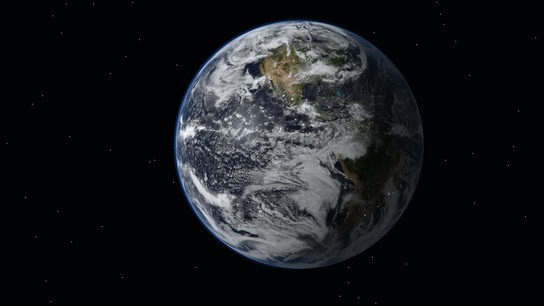
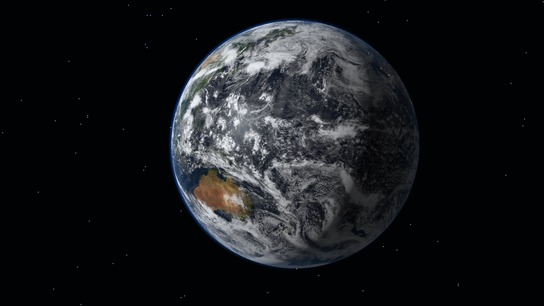
Integrate released Cloud and Earth scenes for Toolkit 4.4.4

diff --git a/test/screensavers-coverage.test.js b/test/screensavers-coverage.test.js
@@ -169,14 +169,11 @@ test('Rainforest Cascade registry entry points to its released app and installer
 });
 
 test('Blue Meridian registry entry points to its released app and installer repository', () => {
-  assert.deepEqual(BLUE_MERIDIAN, {
-    id: 'blue-meridian',
-    name: 'Blue Meridian',
-    pkg: 'com.jeremykenedy.bluemeridian',
-    dreamComponent: 'com.jeremykenedy.bluemeridian/.BlueMeridianDreamService',
-    repo: 'jeremykenedy/blue-meridian',
-    blurb: 'A rotating Earth with moving camera, atmosphere, night lights, clouds and adjustable stars. No ads, analytics or tracking.',
-  });
+  assert.deepEqual(
+    [BLUE_MERIDIAN.id, BLUE_MERIDIAN.pkg, BLUE_MERIDIAN.dreamComponent, BLUE_MERIDIAN.repo],
+    ['blue-meridian', 'com.jeremykenedy.bluemeridian',
+      'com.jeremykenedy.bluemeridian/.BlueMeridianDreamService', 'jeremykenedy/blue-meridian'],
+  );
 });
 
 test('Twilight Hearth registry entry points to its released app and installer repository', () => {
@@ -257,14 +254,11 @@ test('Aqua Surface Drift registry entry points to its released app and installer
 });
 
 test('Cloud Drift Clock registry entry points to its released app and installer repository', () => {
-  assert.deepEqual(CLOUD_DRIFT_CLOCK, {
-    id: 'cloud-drift-clock',
-    name: 'Cloud Drift Clock',
-    pkg: 'com.jeremykenedy.clouddriftclock',
-    dreamComponent: 'com.jeremykenedy.clouddriftclock/.CloudDreamService',
-    repo: 'jeremykenedy/cloud-drift-clock',
-    blurb: 'A moving cloudscape with an optional digital clock, sky palette, density, speed and motion. No ads, analytics or tracking.',
-  });
+  assert.deepEqual(
+    [CLOUD_DRIFT_CLOCK.id, CLOUD_DRIFT_CLOCK.pkg, CLOUD_DRIFT_CLOCK.dreamComponent, CLOUD_DRIFT_CLOCK.repo],
+    ['cloud-drift-clock', 'com.jeremykenedy.clouddriftclock',
+      'com.jeremykenedy.clouddriftclock/.CloudDreamService', 'jeremykenedy/cloud-drift-clock'],
+  );
 });
 
 test('Earthbound Orbit registry entry points to its released app and installer repository', () => {

diff --git a/src/screensaver-registry.js b/src/screensaver-registry.js
@@ -65,7 +65,7 @@ export const SCREENSAVERS = [
     pkg: 'com.jeremykenedy.clouddriftclock',
     dreamComponent: 'com.jeremykenedy.clouddriftclock/.CloudDreamService',
     repo: 'jeremykenedy/cloud-drift-clock',
-    blurb: 'A moving cloudscape with an optional digital clock, sky palette, density, speed and motion. No ads, analytics or tracking.',
+    blurb: 'Real filmed flight through sunset clouds, with an optional drifting clock and playback speed. No ads, analytics or tracking.',
   },
   {
     id: 'prism-clock',
@@ -139,7 +139,7 @@ export const SCREENSAVERS = [
     pkg: 'com.jeremykenedy.bluemeridian',
     dreamComponent: 'com.jeremykenedy.bluemeridian/.BlueMeridianDreamService',
     repo: 'jeremykenedy/blue-meridian',
-    blurb: 'A rotating Earth with moving camera, atmosphere, night lights, clouds and adjustable stars. No ads, analytics or tracking.',
+    blurb: 'Detailed satellite Earth with gentle camera drift, atmosphere, city lights, clouds and adjustable stars. No ads, analytics or tracking.',
   },
   {
     id: 'twilight-hearth',

diff --git a/docs/SCREENSHOTS.md b/docs/SCREENSHOTS.md
@@ -4,45 +4,32 @@
 
 ## Desktop app
 
-The published update screen below was captured from the packaged native macOS 4.4.1 build. It shows an actual release check against the published 4.4.0 release before this patch was published. No update installer was opened.
+The current Live TV, update and About captures come from the actual packaged macOS 4.4.4 app. Its release check contacted GitHub and correctly reported the installed 4.4.4 candidate as newer than the published 4.4.3 release at capture time. No TV was connected and no installer was opened. [Capture provenance](../art/screenshots/desktop-4.4.4-provenance.json) records the native build and image hashes.
 
-<table><tr><td><a href="../art/screenshots/desktop-published-updates.png"><img src="../art/screenshots/desktop-published-updates.png" alt="Native published update screen with actual release check"></a></td></tr></table>
+<table><tr>
+<td><a href="../art/screenshots/desktop-live-tv-4.4.4.png"><img src="../art/screenshots/desktop-live-tv-4.4.4.png" alt="Native Toolkit 4.4.4 public Live TV catalog" width="320"></a></td>
+<td><a href="../art/screenshots/desktop-updates-4.4.4.png"><img src="../art/screenshots/desktop-updates-4.4.4.png" alt="Native Toolkit 4.4.4 actual published-release check" width="320"></a></td>
+<td><a href="../art/screenshots/desktop-about-4.4.4.png"><img src="../art/screenshots/desktop-about-4.4.4.png" alt="Native Toolkit 4.4.4 About and platform information" width="320"></a></td>
+</tr></table>
 
-The same packaged 4.4.1 app checked all 37 installed catalog applications on the new Fire TV. Home Redirect correctly shows app 1.2.6, repository release v3.9.1 and a matching installed version, with no replacement action.
+### Historical desktop captures
 
-<table><tr><td><a href="../art/screenshots/desktop-helper-updates.png"><img src="../art/screenshots/desktop-helper-updates.png" alt="Native Toolkit 4.4.1 correctly compares Home Redirect's Android version independently of its repository release"></a></td></tr></table>
+The following 4.4.1 capture records its check of 37 installed catalog apps and the correct distinction between Home Redirect's Android version and the Toolkit repository tag. It is historical evidence, not a new catalog-wide update audit.
 
-The About screenshot is from the same packaged 4.4.1 build. The remaining unchanged desktop routes below retain their historical packaged macOS 4.3.1 captures connected to a physical Fire TV.
+<table><tr><td><a href="../art/screenshots/desktop-helper-updates.png"><img src="../art/screenshots/desktop-helper-updates.png" alt="Historical Toolkit 4.4.1 helper-version comparison"></a></td></tr></table>
+
+These unchanged routes retain their historical packaged macOS 4.3.1 captures connected to a physical Fire TV.
 
 <table>
-<tr>
-<td><a href="../art/screenshots/desktop-live-tv.png"><img src="../art/screenshots/desktop-live-tv.png" alt="Worldwide IPTV channel browser"></a></td>
-<td><a href="../art/screenshots/desktop-overview.png"><img src="../art/screenshots/desktop-overview.png" alt="Connected Fire TV overview"></a></td>
-<td><a href="../art/screenshots/desktop-screensavers.png"><img src="../art/screenshots/desktop-screensavers.png" alt="Screensaver controls"></a></td>
-</tr>
-<tr>
-<td><a href="../art/screenshots/desktop-home.png"><img src="../art/screenshots/desktop-home.png" alt="fire-iptv installer, home screen and OwnTV controls"></a></td>
-<td><a href="../art/screenshots/desktop-settings.png"><img src="../art/screenshots/desktop-settings.png" alt="Fire TV device settings"></a></td>
-<td><a href="../art/screenshots/desktop-activity.png"><img src="../art/screenshots/desktop-activity.png" alt="Device activity and verification results"></a></td>
-</tr>
-<tr>
-<td><a href="../art/screenshots/desktop-setup.png"><img src="../art/screenshots/desktop-setup.png" alt="Guided setup app choices"></a></td>
-<td><a href="../art/screenshots/desktop-setup-settings.png"><img src="../art/screenshots/desktop-setup-settings.png" alt="Guided setup settings"></a></td>
-<td><a href="../art/screenshots/desktop-setup-review.png"><img src="../art/screenshots/desktop-setup-review.png" alt="Guided setup selection review"></a></td>
-</tr>
-<tr>
-<td><a href="../art/screenshots/desktop-updater.png"><img src="../art/screenshots/desktop-updater.png" alt="Guided installed app updater"></a></td>
-<td><a href="../art/screenshots/desktop-advanced.png"><img src="../art/screenshots/desktop-advanced.png" alt="Advanced settings and warning"></a></td>
-<td><a href="../art/screenshots/desktop-terminal.png"><img src="../art/screenshots/desktop-terminal.png" alt="Read-only Fire TV shell command output"></a></td>
-</tr>
-<tr>
-<td><a href="../art/screenshots/desktop-about.png"><img src="../art/screenshots/desktop-about.png" alt="About, compatibility, license and author"></a></td>
-<td><a href="../art/screenshots/desktop-advanced-warning.png"><img src="../art/screenshots/desktop-advanced-warning.png" alt="Warning before enabling advanced controls"></a></td>
-<td><a href="../art/screenshots/desktop-updater-review.png"><img src="../art/screenshots/desktop-updater-review.png" alt="Guided updater review before applying changes"></a></td>
-</tr>
+<tr><td><a href="../art/screenshots/desktop-overview.png"><img src="../art/screenshots/desktop-overview.png" alt="Historical connected Fire TV overview"></a></td><td><a href="../art/screenshots/desktop-screensavers.png"><img src="../art/screenshots/desktop-screensavers.png" alt="Historical screensaver controls"></a></td><td><a href="../art/screenshots/desktop-home.png"><img src="../art/screenshots/desktop-home.png" alt="Historical home and IPTV controls"></a></td></tr>
+<tr><td><a href="../art/screenshots/desktop-settings.png"><img src="../art/screenshots/desktop-settings.png" alt="Historical device settings"></a></td><td><a href="../art/screenshots/desktop-setup.png"><img src="../art/screenshots/desktop-setup.png" alt="Historical guided setup"></a></td><td><a href="../art/screenshots/desktop-advanced.png"><img src="../art/screenshots/desktop-advanced.png" alt="Historical advanced controls"></a></td></tr>
 </table>
 
 Captured on an Insignia Fire TV Edition TV, Android TV emulators, and in macOS Terminal. Cloud Drift Clock, Jellyfish Drift, Firefly Grove, Neon Corridor, Starfield Drift, Rain on Glass, Rainforest Cascade, Blue Meridian, Twilight Hearth, Nebula Drift, Vortex Spiral, Signal Rain, Retro Flight, Pipeworks Dream, Aqua Surface Drift, Earthbound Orbit, Perseid Passage, Split-Flap Drift, Canopy Drift, Contour Flow, Skyburst Nocturne, Pulse Circuit and Helios Lightfield use screenshots from their own repositories. Select any screenshot to see it full size.
+
+Cloud Drift Clock 2.0 uses the current unretouched physical Fire TV API 28 capture, resized for the gallery. Its filmed scene is by [anotherview](https://www.youtube.com/watch?v=kKPvF0rwqHA), licensed under [CC BY 3.0](https://creativecommons.org/licenses/by/3.0/). The source audio was omitted, the footage edited into a 34-second loop and the clock disabled for this capture. [Capture and release provenance](screenshots/candidate-sources.json) records the exact source and APK hashes.
+
+Blue Meridian 1.0.1 uses the current physical Fire TV API 30 capture at 1920x1080. Its archival satellite imagery and modifications are documented in the [tagged upstream media guide](https://github.com/jeremykenedy/blue-meridian/blob/v1.0.1/docs/MEDIA.md).
 
 ## The home screen and the on-TV picker
 
@@ -65,7 +52,7 @@ Twilight Hearth shows actual physical Fire TV modern/bright output from its veri
     <a href="screenshots/screensaver-aerial-views.jpg"><picture><source media="(min-width: 1280px)" srcset="screenshots/grid/screensaver-aerial-views-desktop.jpg 2x"><source media="(min-width: 600px)" srcset="screenshots/grid/screensaver-aerial-views-tablet.jpg 2x"><img src="screenshots/screensaver-aerial-views.jpg" alt="Aerial Views, the default" title="Aerial Views, the default"></picture></a>
     <a href="screenshots/screensaver-aquarium-4k.jpg"><picture><source media="(min-width: 1280px)" srcset="screenshots/grid/screensaver-aquarium-4k-desktop.jpg 2x"><source media="(min-width: 600px)" srcset="screenshots/grid/screensaver-aquarium-4k-tablet.jpg 2x"><img src="screenshots/screensaver-aquarium-4k.jpg" alt="Aquarium 4K" title="Aquarium 4K"></picture></a>
     <a href="screenshots/screensaver-aquarium-live.jpg"><picture><source media="(min-width: 1280px)" srcset="screenshots/grid/screensaver-aquarium-live-desktop.jpg 2x"><source media="(min-width: 600px)" srcset="screenshots/grid/screensaver-aquarium-live-tablet.jpg 2x"><img src="screenshots/screensaver-aquarium-live.jpg" alt="Aquarium Live" title="Aquarium Live"></picture></a>
-    <a href="screenshots/screensaver-cloud-drift-clock.jpg"><picture><source media="(min-width: 1280px)" srcset="screenshots/grid/screensaver-cloud-drift-clock-desktop.jpg 2x"><source media="(min-width: 600px)" srcset="screenshots/grid/screensaver-cloud-drift-clock-tablet.jpg 2x"><img src="screenshots/screensaver-cloud-drift-clock.jpg" alt="Cloud Drift Clock, a digital clock drifting over daylight clouds" title="Cloud Drift Clock"></picture></a>
+    <a href="screenshots/screensaver-cloud-drift-clock.jpg"><picture><source media="(min-width: 1280px)" srcset="screenshots/grid/screensaver-cloud-drift-clock-desktop.jpg 2x"><source media="(min-width: 600px)" srcset="screenshots/grid/screensaver-cloud-drift-clock-tablet.jpg 2x"><img src="screenshots/screensaver-cloud-drift-clock.jpg" alt="Cloud Drift Clock 2.0, real forward flight through sunset clouds with the clock disabled" title="Cloud Drift Clock"></picture></a>
     <a href="screenshots/screensaver-prism-clock.jpg"><picture><source media="(min-width: 1280px)" srcset="screenshots/grid/screensaver-prism-clock-desktop.jpg 2x"><source media="(min-width: 600px)" srcset="screenshots/grid/screensaver-prism-clock-tablet.jpg 2x"><img src="screenshots/screensaver-prism-clock.jpg" alt="Prism Clock with a drifting clock over moving silver facets on a physical Fire TV" title="Prism Clock"></picture></a>
     <a href="screenshots/screensaver-perseid-passage.jpg"><picture><source media="(min-width: 1280px)" srcset="screenshots/grid/screensaver-perseid-passage-desktop.jpg 2x"><source media="(min-width: 600px)" srcset="screenshots/grid/screensaver-perseid-passage-tablet.jpg 2x"><img src="screenshots/screensaver-perseid-passage.jpg" alt="Perseid Passage with bright meteors crossing a deep blue starfield" title="Perseid Passage"></picture></a>
     <a href="screenshots/screensaver-split-flap-drift.jpg"><picture><source media="(min-width: 1280px)" srcset="screenshots/grid/screensaver-split-flap-drift-desktop.jpg 2x"><source media="(min-width: 600px)" srcset="screenshots/grid/screensaver-split-flap-drift-tablet.jpg 2x"><img src="screenshots/screensaver-split-flap-drift.jpg" alt="Split-Flap Drift with an illuminated split-flap clock floating on a dark background" title="Split-Flap Drift"></picture></a>
@@ -81,7 +68,7 @@ Twilight Hearth shows actual physical Fire TV modern/bright output from its veri
     <a href="screenshots/screensaver-starfield-drift.jpg"><picture><source media="(min-width: 1280px)" srcset="screenshots/grid/screensaver-starfield-drift-desktop.jpg 2x"><source media="(min-width: 600px)" srcset="screenshots/grid/screensaver-starfield-drift-tablet.jpg 2x"><img src="screenshots/screensaver-starfield-drift.jpg" alt="Starfield Drift" title="Starfield Drift"></picture></a>
     <a href="screenshots/screensaver-rain-on-glass.jpg"><picture><source media="(min-width: 1280px)" srcset="screenshots/grid/screensaver-rain-on-glass-desktop.jpg 2x"><source media="(min-width: 600px)" srcset="screenshots/grid/screensaver-rain-on-glass-tablet.jpg 2x"><img src="screenshots/screensaver-rain-on-glass.jpg" alt="Rain on Glass" title="Rain on Glass"></picture></a>
     <a href="screenshots/screensaver-rainforest-cascade.jpg"><picture><source media="(min-width: 1280px)" srcset="screenshots/grid/screensaver-rainforest-cascade-desktop.jpg 2x"><source media="(min-width: 600px)" srcset="screenshots/grid/screensaver-rainforest-cascade-tablet.jpg 2x"><img src="screenshots/screensaver-rainforest-cascade.jpg" alt="Rainforest Cascade" title="Rainforest Cascade"></picture></a>
-    <a href="screenshots/screensaver-blue-meridian.jpg"><picture><source media="(min-width: 1280px)" srcset="screenshots/grid/screensaver-blue-meridian-desktop.jpg 2x"><source media="(min-width: 600px)" srcset="screenshots/grid/screensaver-blue-meridian-tablet.jpg 2x"><img src="screenshots/screensaver-blue-meridian.jpg" alt="Blue Meridian" title="Blue Meridian"></picture></a>
+    <a href="screenshots/screensaver-blue-meridian.jpg"><picture><source media="(min-width: 1280px)" srcset="screenshots/grid/screensaver-blue-meridian-desktop.jpg 2x"><source media="(min-width: 600px)" srcset="screenshots/grid/screensaver-blue-meridian-tablet.jpg 2x"><img src="screenshots/screensaver-blue-meridian.jpg" alt="Blue Meridian 1.0.1, satellite Earth with clouds on a physical Fire TV" title="Blue Meridian"></picture></a>
     <a href="screenshots/screensaver-twilight-hearth.jpg"><picture><source media="(min-width: 1280px)" srcset="screenshots/grid/screensaver-twilight-hearth-desktop.jpg 2x"><source media="(min-width: 600px)" srcset="screenshots/grid/screensaver-twilight-hearth-tablet.jpg 2x"><img src="screenshots/screensaver-twilight-hearth.jpg" alt="Twilight Hearth" title="Twilight Hearth"></picture></a>
     <a href="screenshots/screensaver-nebula-drift.jpg"><picture><source media="(min-width: 1280px)" srcset="screenshots/grid/screensaver-nebula-drift-desktop.jpg 2x"><source media="(min-width: 600px)" srcset="screenshots/grid/screensaver-nebula-drift-tablet.jpg 2x"><img src="screenshots/screensaver-nebula-drift.jpg" alt="Nebula Drift" title="Nebula Drift"></picture></a>
     <a href="screenshots/screensaver-vortex-spiral.jpg"><picture><source media="(min-width: 1280px)" srcset="screenshots/grid/screensaver-vortex-spiral-desktop.jpg 2x"><source media="(min-width: 600px)" srcset="screenshots/grid/screensaver-vortex-spiral-tablet.jpg 2x"><img src="screenshots/screensaver-vortex-spiral.jpg" alt="Vortex Spiral" title="Vortex Spiral"></picture></a>

diff --git a/docs/SCREENSAVERS.md b/docs/SCREENSAVERS.md
@@ -8,7 +8,7 @@
 | `snoozy` | Snoozy | `com.overdevs.snoozy` | [jeremykenedy/Snoozy](https://github.com/jeremykenedy/Snoozy) | Animated Snoopy screensaver |
 | `aquarium-live` | Aquarium Live | `com.jeremykenedy.aquariumlive` | [jeremykenedy/aquarium-live](https://github.com/jeremykenedy/aquarium-live) | A living aquarium drawn in real time: four scenes, six looks, day and night |
 | `aquarium-4k` | Aquarium 4K | `com.jeremykenedy.firetv.aquarium` | [jeremykenedy/fire-tv-aquarium](https://github.com/jeremykenedy/fire-tv-aquarium) | Offline 4K aquarium footage with custom fish, sea life and backgrounds |
-| `cloud-drift-clock` | Cloud Drift Clock | `com.jeremykenedy.clouddriftclock` | [jeremykenedy/cloud-drift-clock](https://github.com/jeremykenedy/cloud-drift-clock) | An animated cloudscape with a digital clock and adjustable palette, density, speed and motion |
+| `cloud-drift-clock` | Cloud Drift Clock | `com.jeremykenedy.clouddriftclock` | [jeremykenedy/cloud-drift-clock](https://github.com/jeremykenedy/cloud-drift-clock) | Real filmed flight through sunset clouds, with an optional drifting clock and playback speed |
 | `prism-clock` | Prism Clock | `com.jeremykenedy.prismclock` | [jeremykenedy/prism-clock](https://github.com/jeremykenedy/prism-clock) | A moving faceted surface with a drifting clock, adjustable materials, lighting, time format and motion |
 | `jellyfish-drift` | Jellyfish Drift | `com.jeremykenedy.jellyfishdrift` | [jeremykenedy/jellyfish-drift](https://github.com/jeremykenedy/jellyfish-drift) | Animated jellyfish with adjustable water, density, motion, species and light rays |
 | `jellyfish-drift-v2` | Jellyfish Drift V2 | `com.jeremykenedy.jellyfishdriftv2` | [jeremykenedy/jellyfish-drift-v2](https://github.com/jeremykenedy/jellyfish-drift-v2) | Real filmed jellyfish in blue aquarium and deep ocean scenes, with playback speed and random selection |
@@ -17,7 +17,7 @@
 | `starfield-drift` | Starfield Drift | `com.jeremykenedy.starfielddrift` | [jeremykenedy/starfield-drift](https://github.com/jeremykenedy/starfield-drift) | A procedural starfield with adjustable density, speed, color, luminance and meteors |
 | `rain-on-glass` | Rain on Glass | `com.jeremykenedy.rainonglass` | [jeremykenedy/rain-on-glass](https://github.com/jeremykenedy/rain-on-glass) | Animated rainfall with adjustable lighting, density, speed and glass focus |
 | `rainforest-cascade` | Rainforest Cascade | `com.jeremykenedy.rainforestcascade` | [jeremykenedy/rainforest-cascade](https://github.com/jeremykenedy/rainforest-cascade) | Three real waterfall loops and an original animated sunrise garden, with framing, speed, lighting and mist controls |
-| `blue-meridian` | Blue Meridian | `com.jeremykenedy.bluemeridian` | [jeremykenedy/blue-meridian](https://github.com/jeremykenedy/blue-meridian) | A rotating Earth with moving camera, atmosphere, night lights, clouds and adjustable stars |
+| `blue-meridian` | Blue Meridian | `com.jeremykenedy.bluemeridian` | [jeremykenedy/blue-meridian](https://github.com/jeremykenedy/blue-meridian) | Detailed satellite Earth with gentle camera drift, atmosphere, city lights, clouds and adjustable stars |
 | `twilight-hearth` | Twilight Hearth | `com.jeremykenedy.twilighthearth` | [jeremykenedy/twilight-hearth](https://github.com/jeremykenedy/twilight-hearth) | Recorded wood fire with brick, stone and slate surrounds, flame exposure, embers, playback speed and room lighting |
 | `nebula-drift` | Nebula Drift | `com.jeremykenedy.nebuladrift` | [jeremykenedy/nebula-drift](https://github.com/jeremykenedy/nebula-drift) | Animated nebula clouds with adjustable structure, color, density, stars and meteors |
 | `vortex-spiral` | Vortex Spiral | `com.jeremykenedy.vortexspiral` | [jeremykenedy/vortex-spiral](https://github.com/jeremykenedy/vortex-spiral) | Animated spiral ribbons with adjustable arms, winding, color, brightness and motion |
@@ -95,6 +95,8 @@ this repository before publishing. Toolkit gallery files use
 
 | Id | Package and DreamService | Release asset | Bytes | SHA-256 | Settings provider |
 |----|--------------------------|---------------|-------|---------|-------------------|
[5 lines of base64/hex data omitted]
@@ -140,3 +142,17 @@ Open V2 native settings to choose the scene, playback speed or random scene and 
 ## Optional Drift clocks
 
 Cloud Drift Clock, Starfield Drift, Nebula Drift, Aqua Surface Drift, Split-Flap Drift and Canopy Drift 1.1.0 add an independent Show clock switch. Cloud and Split-Flap preserve their existing clock-on default; the four new overlays default off. The setting stays as selected when other options randomize. These updates do not redesign the scenes or add forward cloud flight.
+
+## Current Cloud and Earth scenes
+
+Cloud Drift Clock 2.0 replaces the painted scene with real forward flight through sunset clouds. Its native settings provide playback speed and six clock/randomization controls. Show clock stays independent of randomization. The old palette and density values remain stored for compatibility but do not alter filmed footage and have no native editor widgets. The 1080p loop includes a 720p fallback; source audio is omitted.
+
+Blue Meridian 1.0.1 uses archival satellite maps, corrected rotating daylight and seamless longitude filtering. Seven native controls remain available. Camera movement is screen-space drift, not an orbital fly-through. Physical API 30 verification used a 1920x1080 surface; native 4K and extended thermal behavior remain untested.
+
+Both preserve their original package and signer. Update without changing the selected screensaver or timers:
+
+```sh
+firetv-screensavers --install=cloud-drift-clock,blue-meridian --yes
+```
+
+The Toolkit opens each app's own native settings; it does not provide a generic scene-property editor. [Gallery provenance](screenshots/candidate-sources.json) records native captures, asset hashes and attribution.

diff --git a/docs/RELEASE-4.4.4.md b/docs/RELEASE-4.4.4.md
@@ -1,0 +1,52 @@
+# Fire TV Toolkit 4.4.4
+
+Fire TV UI updates can be checked from its public release without requiring a GitHub sign-in. The screensaver catalog now describes and previews Cloud Drift Clock 2.0's real filmed flight and Blue Meridian 1.0.1's detailed satellite Earth accurately.
+
+## Upgrade guide
+
+From a clean existing Toolkit checkout, run:
+
+```sh
+firetv-updates --self --install toolkit --yes
+```
+
+Alternatively, fast-forward that checkout to the verified primary branch, then run `npm ci` and `npm link`. Desktop users install the matching macOS, Windows or Linux package through their normal operating-system installer. Node 18 or newer remains required for the CLI; source desktop builds retain their Node 22.13 minimum. No configuration migration, TV reset or reboot is needed.
+
+Existing Android apps keep their package, signing identity and settings. Update these scenes separately:
+
+```sh
+firetv-screensavers --install=cloud-drift-clock,blue-meridian --yes
+```
+
+Installation does not select a different screensaver or change its timers. The public UI check still verifies release checksum, package and version; its staged installer retains TV confirmation. Optional GitHub authentication can raise API limits.
+
+## Breaking changes
+
+None in the Toolkit public interface or runtime floors. Cloud Drift Clock 2.0 is a separate upstream visual change: its filmed scene supports seven effective controls; legacy palette and density values stay stored but do not affect footage. Its existing default clock visibility is retained. Blue Meridian keeps all seven native controls.
+
+## Major changes
+
+- Public Fire TV UI release lookup works without a required sign-in in CLI and desktop update paths.
+- Cloud Drift Clock 2.0 and Blue Meridian 1.0.1 have current unretouched physical-TV gallery images, exact artifact contracts and preserved media attribution.
+
+## Minor changes and fixes
+
+- Document Black Screen Dream in both selection command lists.
+- Align desktop version metadata with its bundled local Toolkit dependency.
+- Refresh the current native macOS Live TV, update and About captures; label older device screenshots as historical evidence.
+
+## Verification
+
+The actual packaged macOS 4.4.4 app launched, displayed its current version and checked the published 4.4.3 release correctly. No TV was connected for that desktop capture and no installer was opened. Both screensaver releases were downloaded and verified against their published APK hashes and production signing certificates. Their native device evidence and compatibility limits are linked in the [screensaver guide](https://github.com/jeremykenedy/fire-tv-toolkit/blob/v4.4.4/docs/SCREENSAVERS.md).
+
+CLI, desktop and native packaging checks are completed against the release source before publication. A build or installation does not establish owner acceptance of every screensaver's appearance. Native 4K, extended thermal behavior and every possible TV/app update confirmation path remain unverified.
+
+## Security and data integrity
+
+User-initiated update downloads retain verification and existing device/app data. This change adds no analytics or background update checks. Cloud media remains CC BY 3.0 independently of Toolkit's source license; NASA source attribution is retained.
+
+## Rollback
+
+Install the previous desktop release or use a clean checkout of `v4.4.3` for the CLI, followed by `npm ci` and `npm link`. This does not downgrade installed TV apps or erase their settings. Android blocks lower-version-code installs; do not uninstall an app merely to downgrade it without separately backing up its settings.
+
+[Compare v4.4.3 to v4.4.4](https://github.com/jeremykenedy/fire-tv-toolkit/compare/v4.4.3...v4.4.4)

diff --git a/docs/INTEGRATIONS.md b/docs/INTEGRATIONS.md
@@ -26,3 +26,9 @@ The toolkit installs optional TV apps from their own releases. Those apps and bu
 | [iptv-org](https://github.com/iptv-org/iptv) | iptv-org contributors | Public channel metadata and stream links. |
 
 The toolkit's [Apache License 2.0](../LICENSE) applies to this repository's own code. See each upstream repository and the desktop application's bundled notices for third party license terms.
+
+## Screensaver gallery media
+
+The Cloud Drift Clock 2.0 screenshot contains filmed cloud flight by [anotherview](https://www.youtube.com/watch?v=kKPvF0rwqHA), licensed under [Creative Commons Attribution 3.0](https://creativecommons.org/licenses/by/3.0/). The footage was edited into a silent loop and its native screenshot resized for this gallery. The license applies to that media independently of the Toolkit source license.
+
+The Blue Meridian 1.0.1 screenshot contains NASA Blue Marble surface and cloud imagery and NASA/NOAA Black Marble night lights. [Tagged source provenance](https://github.com/jeremykenedy/blue-meridian/blob/v1.0.1/assets/SOURCES.json) records authors, primary sources and modifications. No endorsement is implied. [Gallery provenance](screenshots/candidate-sources.json) records the actual captures and released APK hashes.

diff --git a/CHANGELOG.md b/CHANGELOG.md
@@ -1,5 +1,31 @@
 # Changelog
 
+## [4.4.4] - 2026-10-25
+
+### Fixed
+
+- Check public Fire TV UI releases without requiring a GitHub sign-in, while retaining verified staged installation.
+- Include Black Screen Dream in both command reference lists.
+- Align the desktop package and its bundled local Toolkit dependency.
+
+### Changed
+
+- Refresh Cloud Drift Clock 2.0 and Blue Meridian 1.0.1 descriptions, real native screenshots and exact integration contracts.
+
+See the [4.4.4 upgrade guide](docs/RELEASE-4.4.4.md).
+
+## [4.4.3] - 2026-10-22
+
+- Add Black Screen Dream as its own installable and selectable screensaver.
+
+See the [4.4.3 upgrade guide](docs/RELEASE-4.4.3.md).
+
+## [4.4.2] - 2026-10-22
+
+- Keep Jellyfish Drift Classic and filmed V2 separate, refresh the released optional-clock apps and pin Fire IPTV 1.2.0.
+
+See the [4.4.2 upgrade guide](docs/RELEASE-4.4.2.md).
+
 ## [4.4.1] - 2026-10-22
 
 ### Fixed

diff --git a/docs/index.md b/docs/index.md
@@ -23,6 +23,9 @@
 | [Troubleshooting](TROUBLESHOOTING.md) | Connection and settings problems. |
 | [Development](DEVELOPMENT.md) | Source builds, tests and releasing. |
 | [Signing installers](SIGNING.md) | Signing and notarization. |
+| [4.4.4 release](RELEASE-4.4.4.md) | Public UI updates and current Cloud/Earth scenes. |
+| [4.4.3 release](RELEASE-4.4.3.md) | Black Screen Dream installation and selection. |
+| [4.4.2 release](RELEASE-4.4.2.md) | Separate jellyfish editions and optional clocks. |
 | [4.4.1 release](RELEASE-4.4.1.md) | Correct Android helper lookup and version comparison. |
 | [4.4.0 release](RELEASE-4.4.0.md) | Published update controls and guarded settings. |
 | [4.3.2 release](RELEASE-4.3.2.md) | Twilight Hearth release preview and visible desktop catalog explanations. |

diff --git a/README.md b/README.md
@@ -46,7 +46,7 @@
 Browse live channels, save favorites, and manage screensavers, home screens and TV settings.
 
 <p align="center">
-  <a href="https://github.com/jeremykenedy/fire-tv-toolkit/releases/latest/download/Fire-TV-Toolkit-mac-arm64.dmg"><img src="art/screenshots/desktop-live-tv.png" alt="Fire TV Toolkit desktop app. Click to download for macOS Apple silicon." width="900"></a>
+  <a href="https://github.com/jeremykenedy/fire-tv-toolkit/releases/latest/download/Fire-TV-Toolkit-mac-arm64.dmg"><img src="art/screenshots/desktop-live-tv-4.4.4.png" alt="Fire TV Toolkit desktop app. Click to download for macOS Apple silicon." width="900"></a>
 </p>
 
 | macOS | Windows | Linux |
